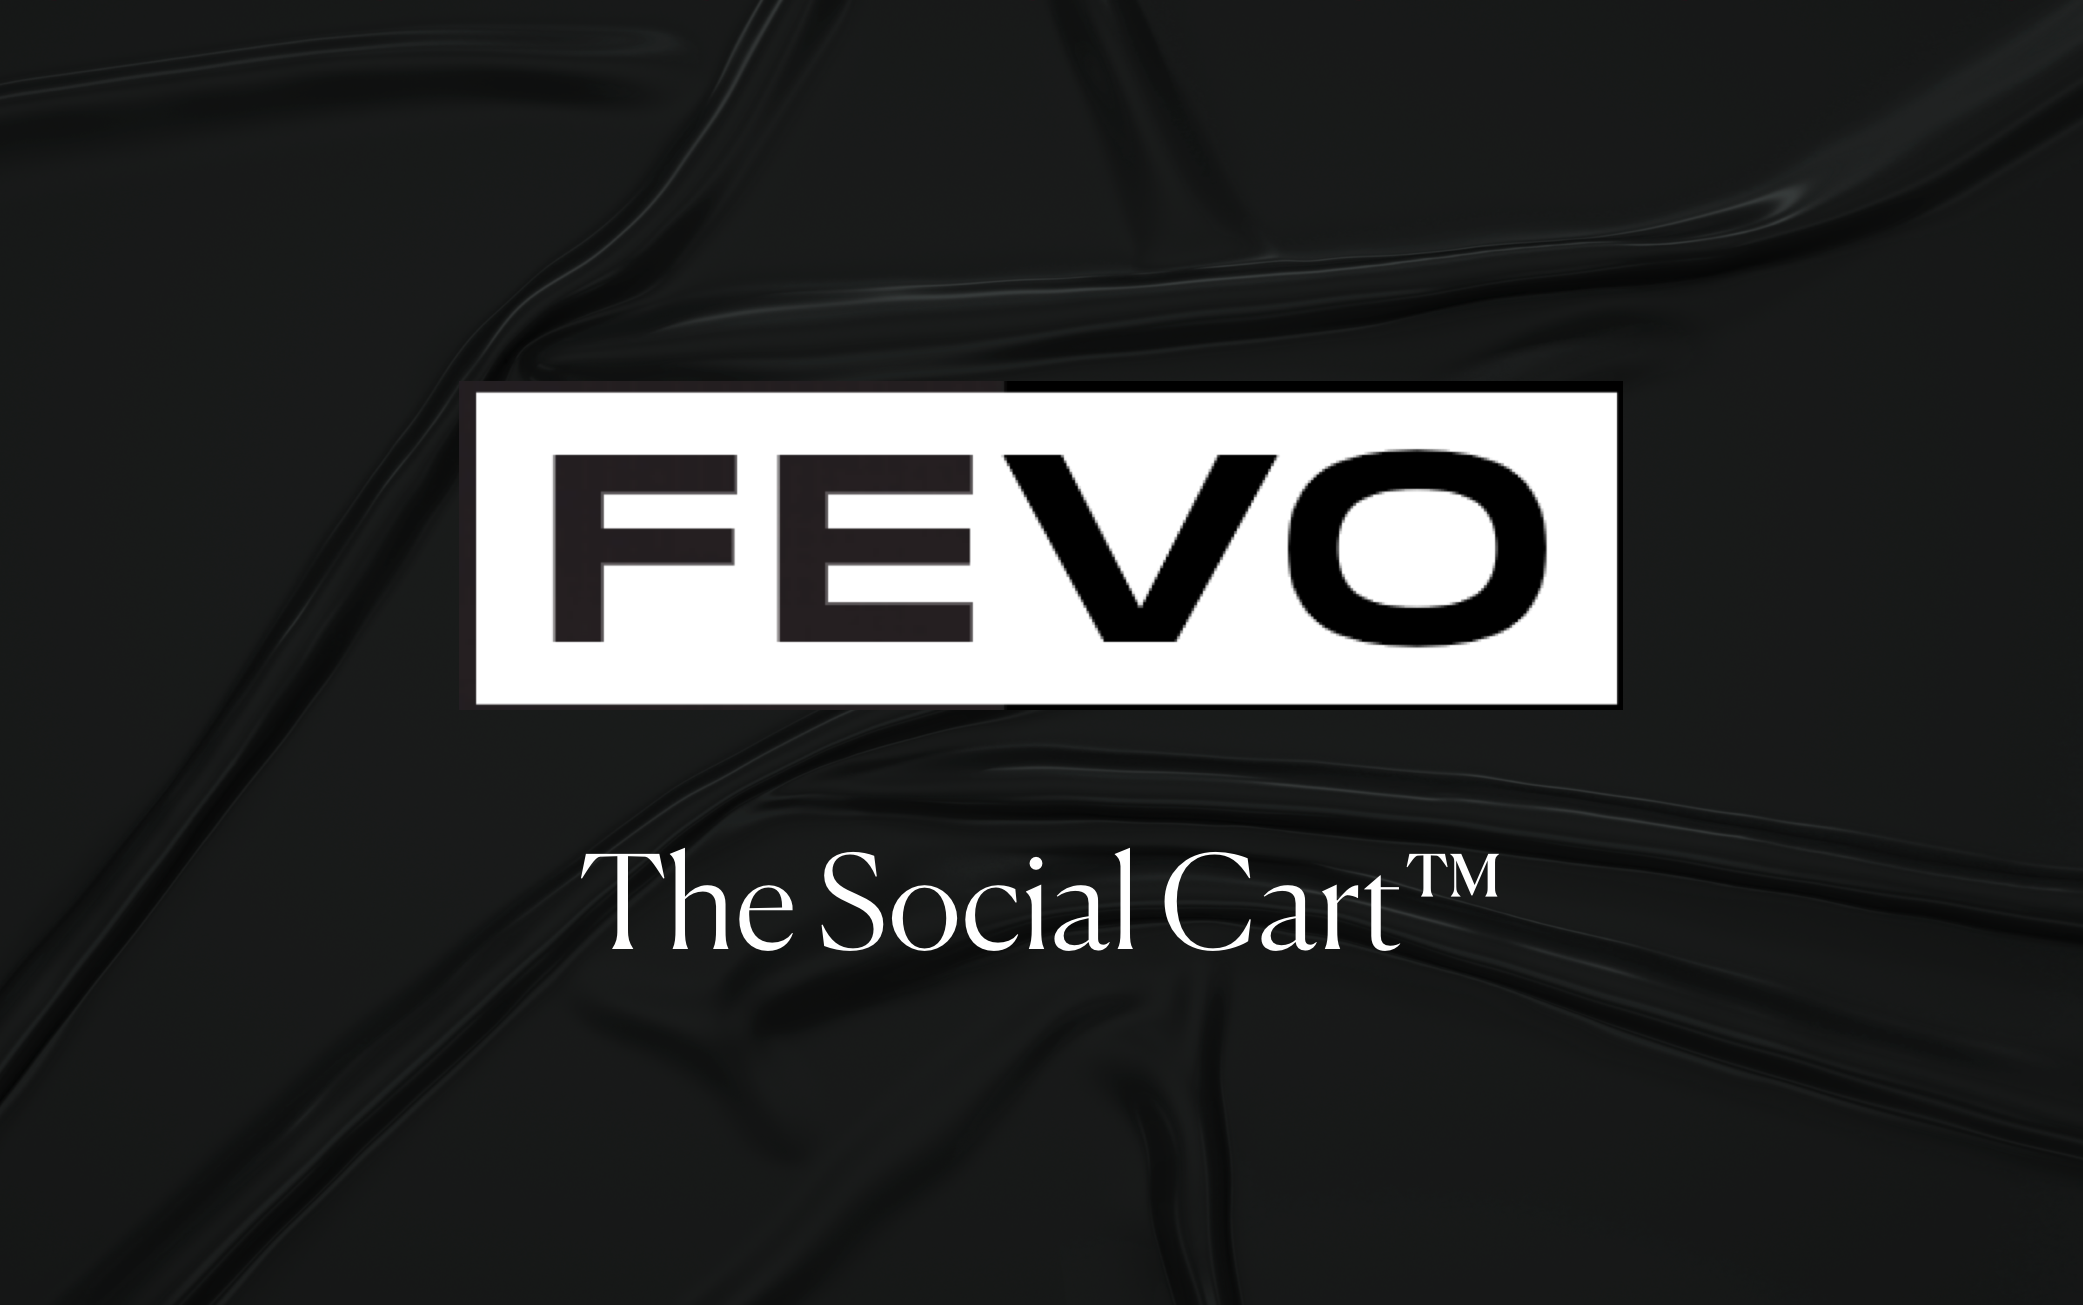
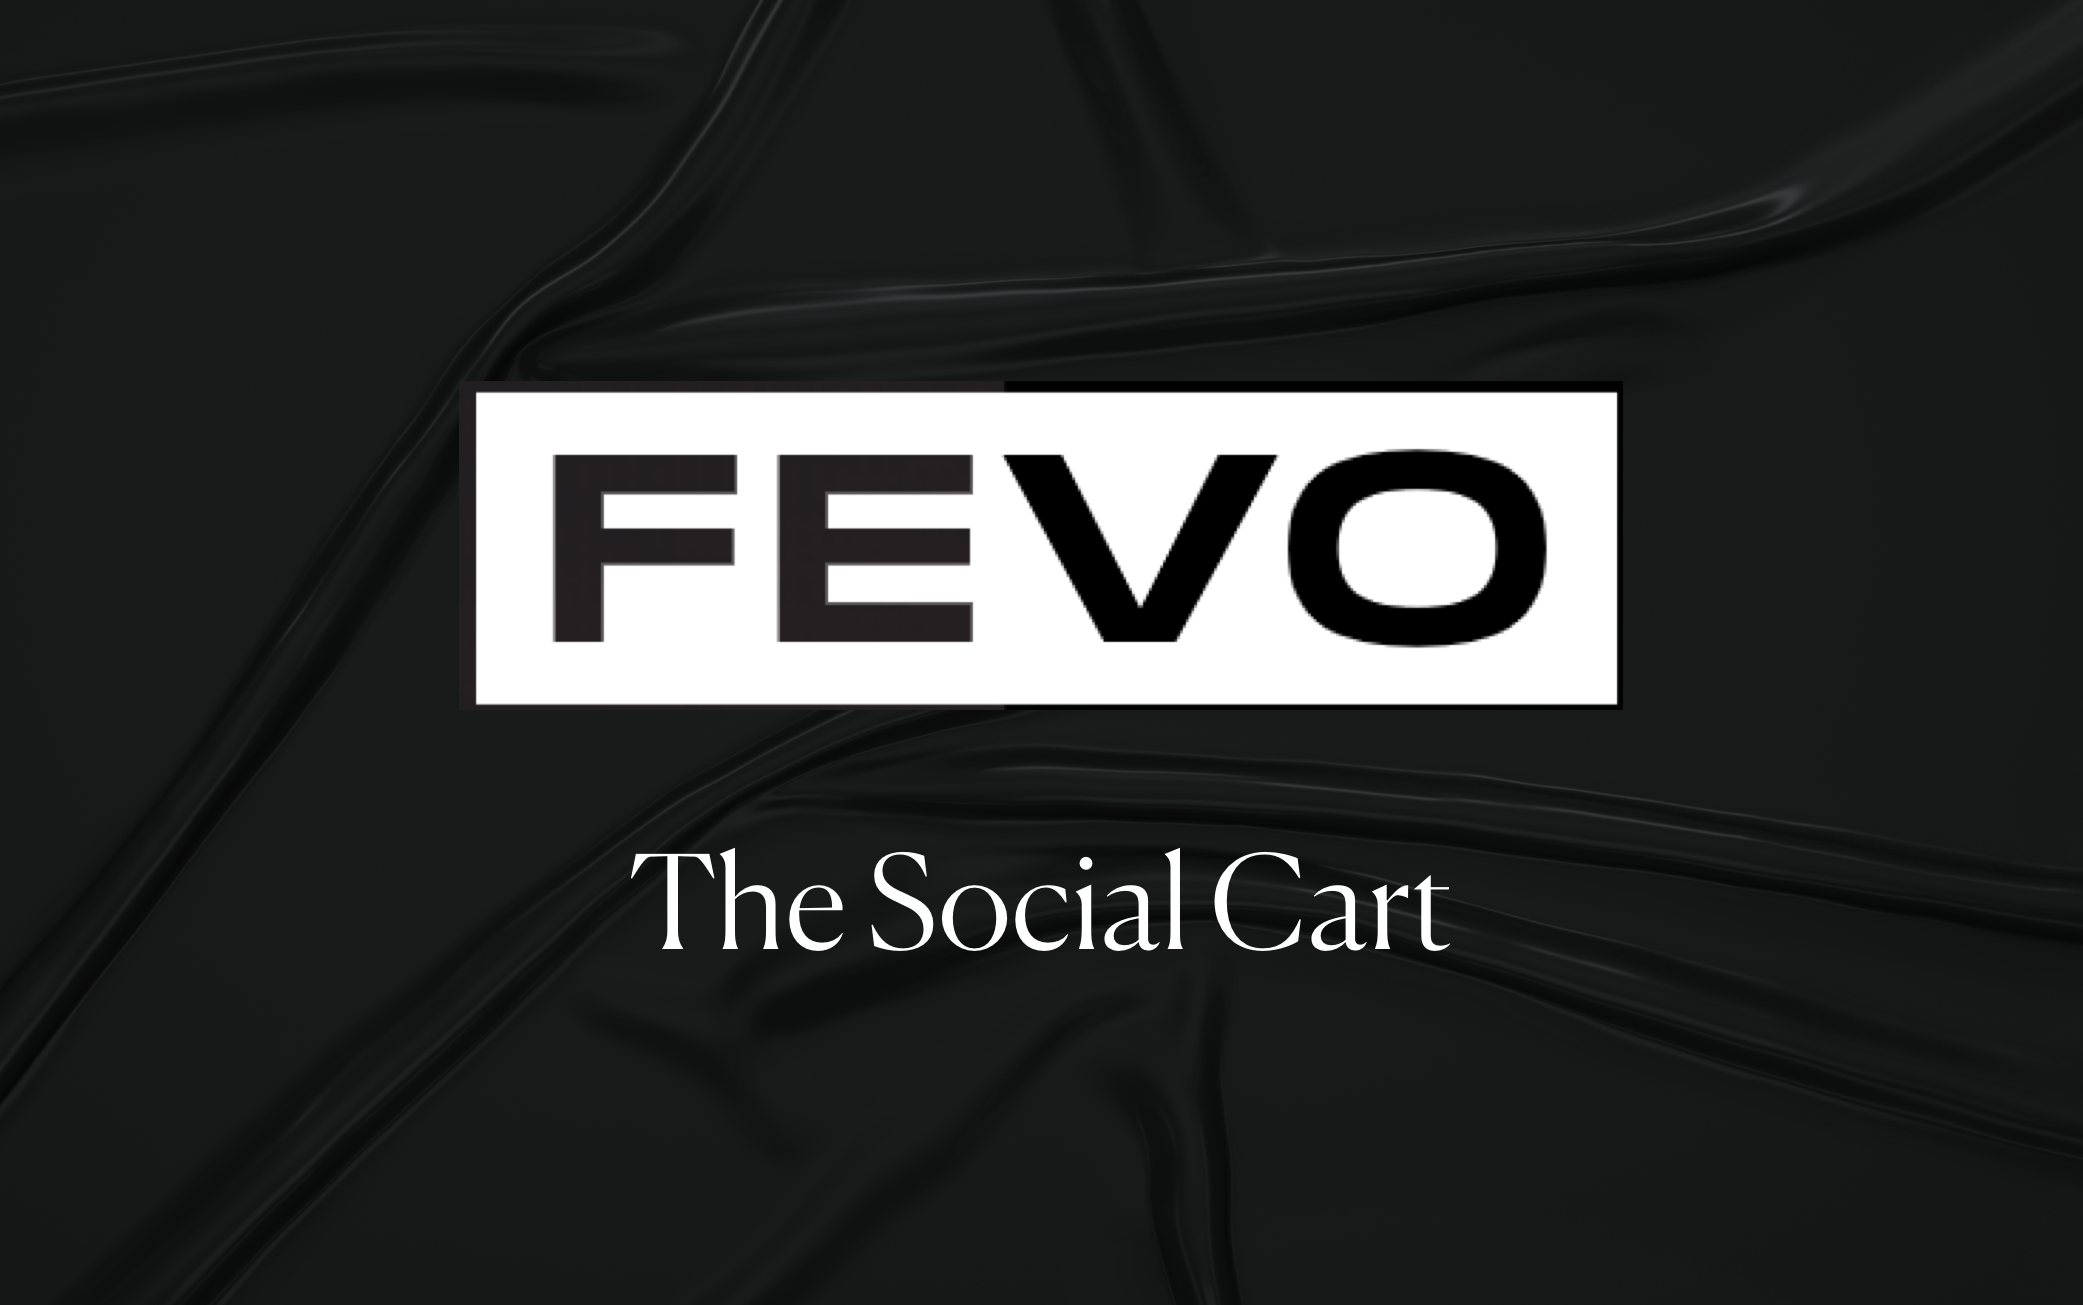
remove trademark

Changed region(s): [[0.2808, 0.6437, 0.7177, 0.7356]]

diff --git a/public/index.html b/public/index.html
@@ -28,7 +28,7 @@
     <meta property="og:image:width" content="208" />
     <meta property="og:image:height" content="130" />
 
-    <title>FEVO: The Social Cart™</title>
+    <title>FEVO: The Social Cart</title>
   </head>
   <body>
     <noscript>You need to enable JavaScript to run this app.</noscript>
